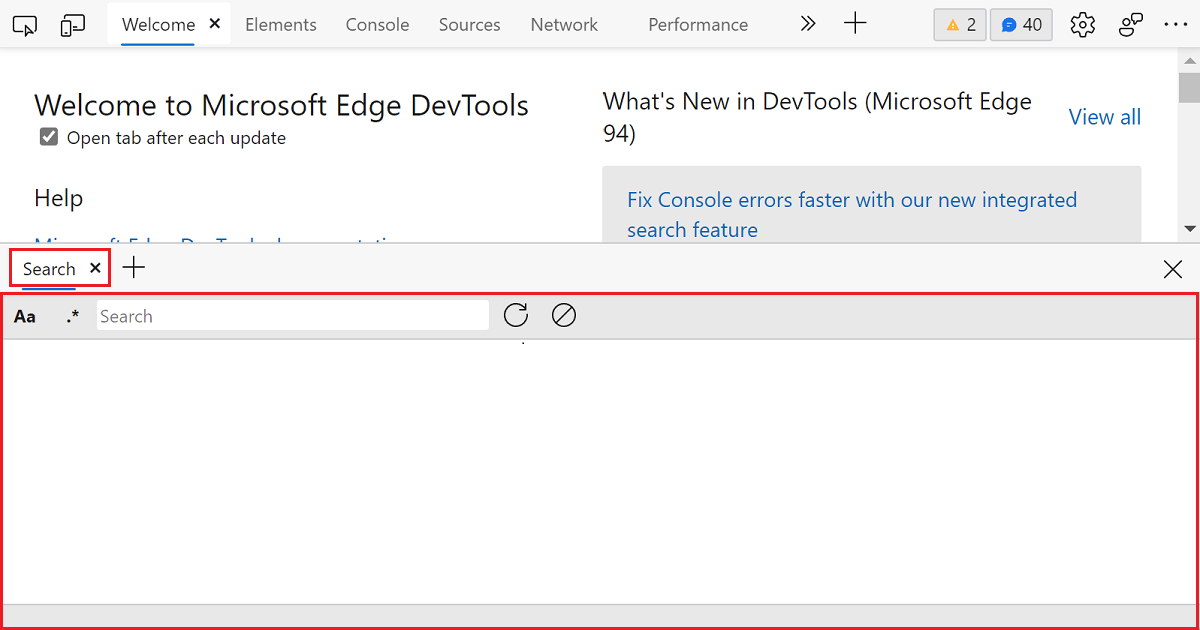
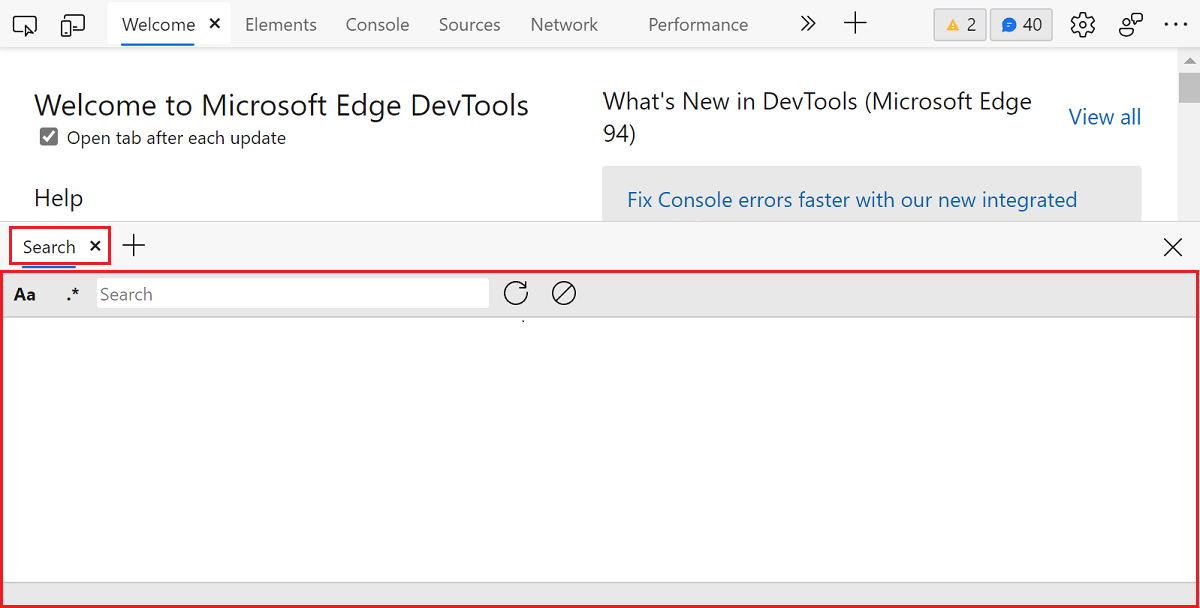
Linked to specific Sources>Nav>Page tab section, hid confusing unrelated "search" in Welcome in screenshot

diff --git a/microsoft-edge/devtools-guide-chromium/search/search-tool.md b/microsoft-edge/devtools-guide-chromium/search/search-tool.md
@@ -14,7 +14,7 @@ Use the **Search** tool to find specific source files for a webpage.
 
 A webpage is mainly an HTML file that's used by the browser to display content.  But webpages commonly require other resources in addition to the HTML file, such as CSS, JavaScript, or image files, to provide richer content.
 
-In the [**Sources**](../sources/index.md) tool, the **Page** tab of the **Navigator** pane shows all the resources that are downloaded by a webpage.  But when there are many resources, it can become useful to _search_ through them.  To do text and regular expression searches across all the resources of a webpage, use the **Search** tool.
+In the **Sources** tool, the **Page** tab of the [Navigator pane](../sources/index.md#using-the-navigator-pane-to-select-files) shows all the resources that are downloaded by a webpage.  But when there are many resources, it can become useful to _search_ through them.  To do text and regular expression searches across all the resources of a webpage, use the **Search** tool.
 
 
 <!-- ====================================================================== -->
@@ -25,6 +25,8 @@ To quickly open the **Search** tool, press `Control`+`Shift`+`F` (Windows/Linux)
 The **Search** tool appears in the **Drawer**, and shows the search toolbar:
 
 :::image type="content" source="../media/search-tool/search-tool-first-open-reduced.png" alt-text="The Search tool, with the search toolbar." lightbox="../media/search-tool/search-tool-first-open.png":::
+
+<!-- the screenshot's mention of 'search' in Console in Welcome is unrelated - a bit confusing -->
 
 To open the **Search** tool from the **Command Menu**:
 1. [Open DevTools](../open/index.md) (`F12`).
@@ -53,11 +55,17 @@ The **Search** tool shows the list of matching resources, and highlights the cor
 
 
 <!-- ====================================================================== -->
-## Match case and search for regular expressions
+## Match case (lowercase or uppercase characters)
 
-By default, the **Search** tool is not case-sensitive.  A search for a term matches occurrences of that term, regardless of lowercase or uppercase characters.  To only find results that match a particular case (lowercase or uppercase characters), click the **Match Case** (`Aa`) button in the toolbar.
+By default, the **Search** tool is not case-sensitive.  A search for a term matches occurrences of that term, regardless of lowercase or uppercase characters.
 
-You can also use [JavaScript regular expressions](https://developer.mozilla.org/en-US/docs/Web/JavaScript/Guide/Regular_Expressions) to find matching results. To use a regular expression, click the **Use Regular Expression** (`.*`) button in the toolbar and enter a valid regular expression in the search input field.
+To only find results that match a particular case (lowercase or uppercase characters), click the **Match Case** (`Aa`) button in the search toolbar.
+
+
+<!-- ====================================================================== -->
+## Search for regular expressions
+
+You can use regular expressions, including [JavaScript regular expressions](https://developer.mozilla.org/en-US/docs/Web/JavaScript/Guide/Regular_Expressions), to find matching results.  To use a regular expression, click the **Use Regular Expression** (`.*`) button in the toolbar and enter a valid regular expression in the search input field.
 
 :::image type="content" source="../media/search-tool/search-tool-regexp.png" alt-text="Searching for a regular expression.":::
 
